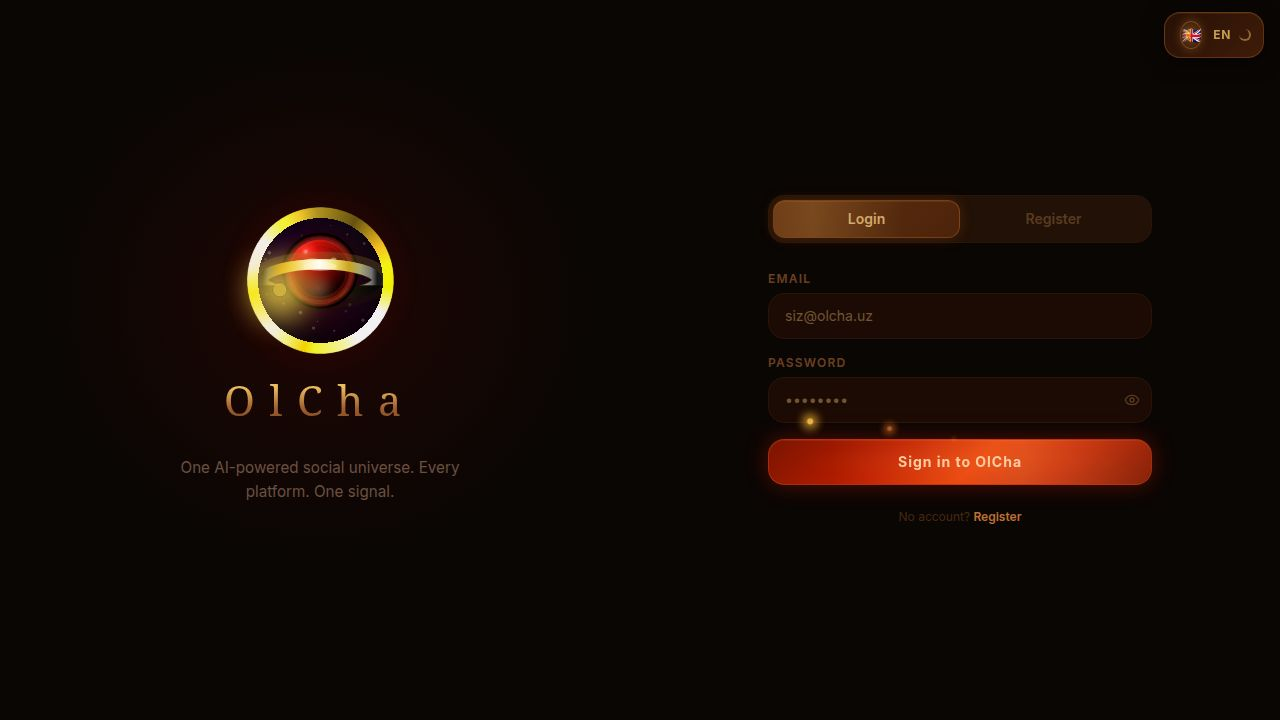
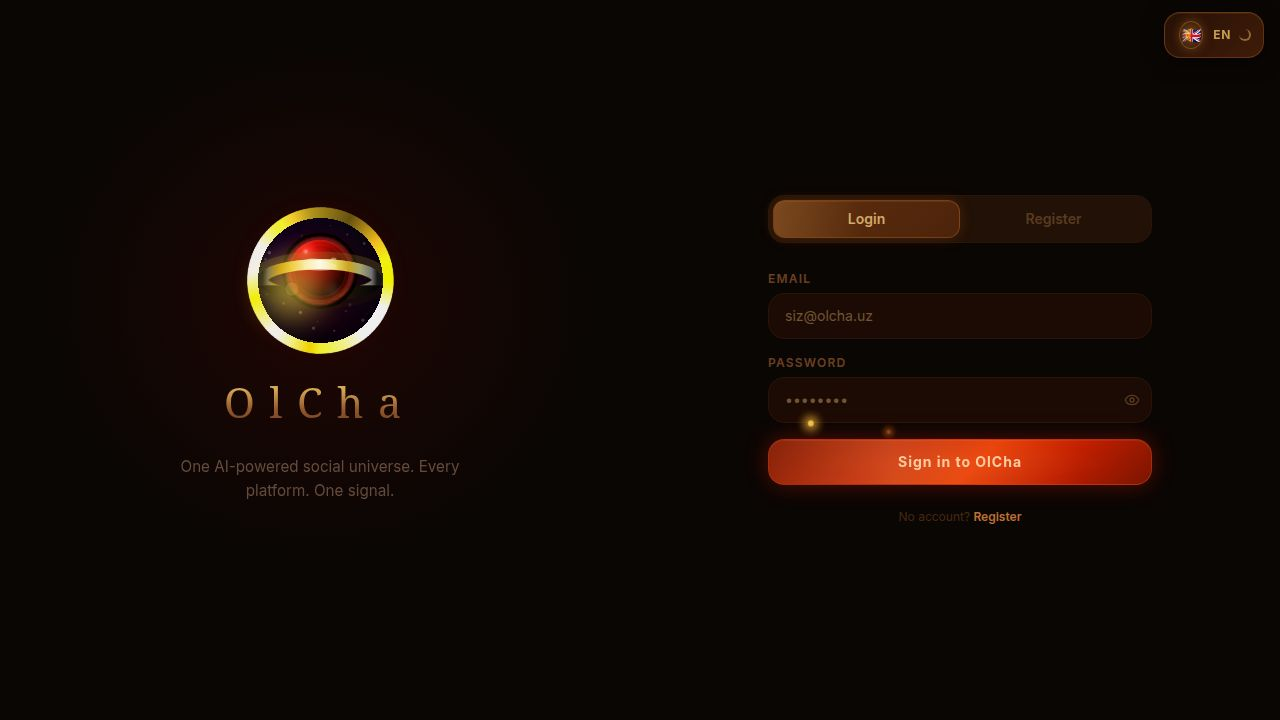
Adjust layout and component visibility for a cleaner interface
Refactors FeedCard styling, conditionally renders FloatingAvatar and MuniPanel, and corrects HomePage layout to improve visual presentation and user experience across different routes.

Replit-Commit-Author: Agent
Replit-Commit-Session-Id: e3607cdc-ba45-4185-9ec8-f2380b94d102
Replit-Commit-Checkpoint-Type: full_checkpoint
Replit-Commit-Event-Id: 4a51e9d6-33fd-46d3-b179-7c2d469cb8dd
Replit-Commit-Screenshot-Url: https://storage.googleapis.com/screenshot-production-us-central1/91d8d799-0a2a-4851-a440-527630a45e2d/e3607cdc-ba45-4185-9ec8-f2380b94d102/QuqL3zZ
Replit-Helium-Checkpoint-Created: true

diff --git a/artifacts/nexus/src/components/FeedCard.tsx b/artifacts/nexus/src/components/FeedCard.tsx
@@ -696,7 +696,7 @@ export default function FeedCard({ post, index }: FeedCardProps) {
       {/* ═══ LAYER 20: RIGHT ORB COLUMN ═══ */}
       <div
         className="absolute right-3 flex flex-col items-center gap-4"
-        style={{ zIndex: 20, bottom: 164, top: "auto" }}
+        style={{ zIndex: 20, bottom: 120, top: "auto" }}
         onPointerDown={e => e.stopPropagation()}
       >
         {/* Like */}
@@ -831,15 +831,14 @@ export default function FeedCard({ post, index }: FeedCardProps) {
           </div>
         )}
 
-        <div className="flex items-center gap-3 px-4 pt-3"
+        <div className="flex items-center gap-3 px-4 py-3"
           style={{
             background: "rgba(4,3,14,0.82)",
             backdropFilter: "blur(28px) saturate(2)",
             WebkitBackdropFilter: "blur(28px) saturate(2)",
             borderTop: `1px solid ${accent}18`,
             boxShadow: `0 -4px 24px rgba(0,0,0,0.45), inset 0 1px 0 ${accent}12`,
-            paddingBottom: "calc(env(safe-area-inset-bottom, 0px) + 76px)",
-            paddingRight: "max(1rem, calc(env(safe-area-inset-right, 0px) + 68px))",
+            paddingBottom: "calc(env(safe-area-inset-bottom, 0px) + 12px)",
           }}>
 
           {/* Avatar */}
@@ -872,16 +871,18 @@ export default function FeedCard({ post, index }: FeedCardProps) {
             <motion.button
               whileTap={{ scale: 0.9 }}
               onClick={() => { setSubscribed(s => !s); showSubscribeBriefly(); }}
-              className="flex items-center gap-1.5 px-3 py-1.5 rounded-xl text-[11px] font-bold flex-shrink-0"
+              className="flex items-center gap-1.5 px-3 py-1.5 rounded-xl text-[11px] font-black flex-shrink-0 mr-16 md:mr-0"
               style={{
-                background: subscribed ? `${accent}22` : `${accent}`,
+                background: subscribed
+                  ? `linear-gradient(135deg, ${accent}33, ${accent}18)`
+                  : `linear-gradient(135deg, ${accent}, ${accent}cc)`,
                 color: subscribed ? accent : "#000",
-                border: subscribed ? `1px solid ${accent}44` : "none",
-                boxShadow: subscribed ? "none" : `0 0 12px ${accent}55`,
-                transition: "all 0.2s",
+                border: subscribed ? `1px solid ${accent}55` : "none",
+                boxShadow: subscribed ? `0 0 8px ${accent}30` : `0 0 16px ${accent}66, 0 2px 8px rgba(0,0,0,0.4)`,
+                transition: "all 0.22s",
               }}
             >
-              {subscribed ? <UserCheck className="w-3 h-3" /> : <UserPlus className="w-3 h-3" />}
+              {subscribed ? <UserCheck className="w-3.5 h-3.5" /> : <UserPlus className="w-3.5 h-3.5" />}
               {subscribed ? "Obuna" : "Obuna bo'l"}
             </motion.button>
           )}

diff --git a/artifacts/nexus/src/components/Layout.tsx b/artifacts/nexus/src/components/Layout.tsx
@@ -346,7 +346,8 @@ function MuniPanel() {
   const endRef = useRef<HTMLDivElement>(null);
   const [location] = useLocation();
   const isOTube = location === "/otube";
-  const { edged, dock } = useDockedState(isOTube ? "left" : "right");
+  const isLeftSide = isOTube || location === "/";
+  const { edged, dock } = useDockedState(isLeftSide ? "left" : "right");
 
   /* Auto-close panel when dock hides all orbs */
   useEffect(() => { if (edged) setOpen(false); }, [edged]);
@@ -413,13 +414,13 @@ function MuniPanel() {
           dragConstraints={{ left: 0, right: 0 }}
           dragElastic={0.2}
           onDragEnd={(_: unknown, info: { offset: { x: number } }) => {
-            if (isOTube ? info.offset.x < -36 : info.offset.x > 36) dock();
+            if (isLeftSide ? info.offset.x < -36 : info.offset.x > 36) dock();
           }}
           whileTap={{ scale: 0.88 }}
           className="fixed z-[80] md:hidden"
           style={{
             bottom: "calc(env(safe-area-inset-bottom, 0px) + 120px)",
-            ...(isOTube ? { left: 16 } : { right: 16 }),
+            ...(isLeftSide ? { left: 16 } : { right: 16 }),
             width: 44, height: 44, borderRadius: "50%",
             display: "flex", alignItems: "center", justifyContent: "center",
           }}
@@ -481,7 +482,7 @@ function MuniPanel() {
             animate={{ opacity: 1, y: 0, scale: 1, rotateX: 0, filter: "blur(0px)" }}
             exit={{ opacity: 0, y: 32, scale: 0.88, rotateX: 10, filter: "blur(6px)" }}
             transition={{ type: "spring", stiffness: 420, damping: 32 }}
-            className={`fixed bottom-[172px] z-[79] md:bottom-20 w-[calc(100vw-2rem)] max-w-sm rounded-3xl overflow-hidden shadow-2xl flex flex-col ${isOTube ? "left-4" : "right-4"}`}
+            className={`fixed bottom-[172px] z-[79] md:bottom-20 w-[calc(100vw-2rem)] max-w-sm rounded-3xl overflow-hidden shadow-2xl flex flex-col ${isLeftSide ? "left-4" : "right-4"}`}
             style={{ perspective: 800, background: "hsl(var(--card))", border: "1px solid rgba(124,58,237,0.25)", boxShadow: "0 0 60px rgba(124,58,237,0.2), 0 24px 48px rgba(0,0,0,0.4)", maxHeight: "60vh" }}
           >
             {/* Header */}
@@ -1220,10 +1221,10 @@ export default function Layout({ children }: { children: React.ReactNode }) {
       </main>
 
       {/* ── FLOATING USER AVATAR BUBBLE ── */}
-      <FloatingAvatar />
+      {!isImmersive && <FloatingAvatar />}
 
       {/* ── MUNI FLOATING AI ── */}
-      {!isImmersive && <MuniPanel />}
+      {location !== "/reels" && <MuniPanel />}
 
       {/* ── DOCK EDGE TABS ── */}
       <DockEdgeTab side="right" />

diff --git a/artifacts/nexus/src/pages/HomePage.tsx b/artifacts/nexus/src/pages/HomePage.tsx
@@ -352,7 +352,7 @@ export default function HomePage() {
   );
 
   return (
-    <div className="-ml-2 md:ml-0 -mr-0 -mt-0 relative">
+    <div className="relative">
 
       {/* ── SNAP SCROLL FEED ── */}
       <div